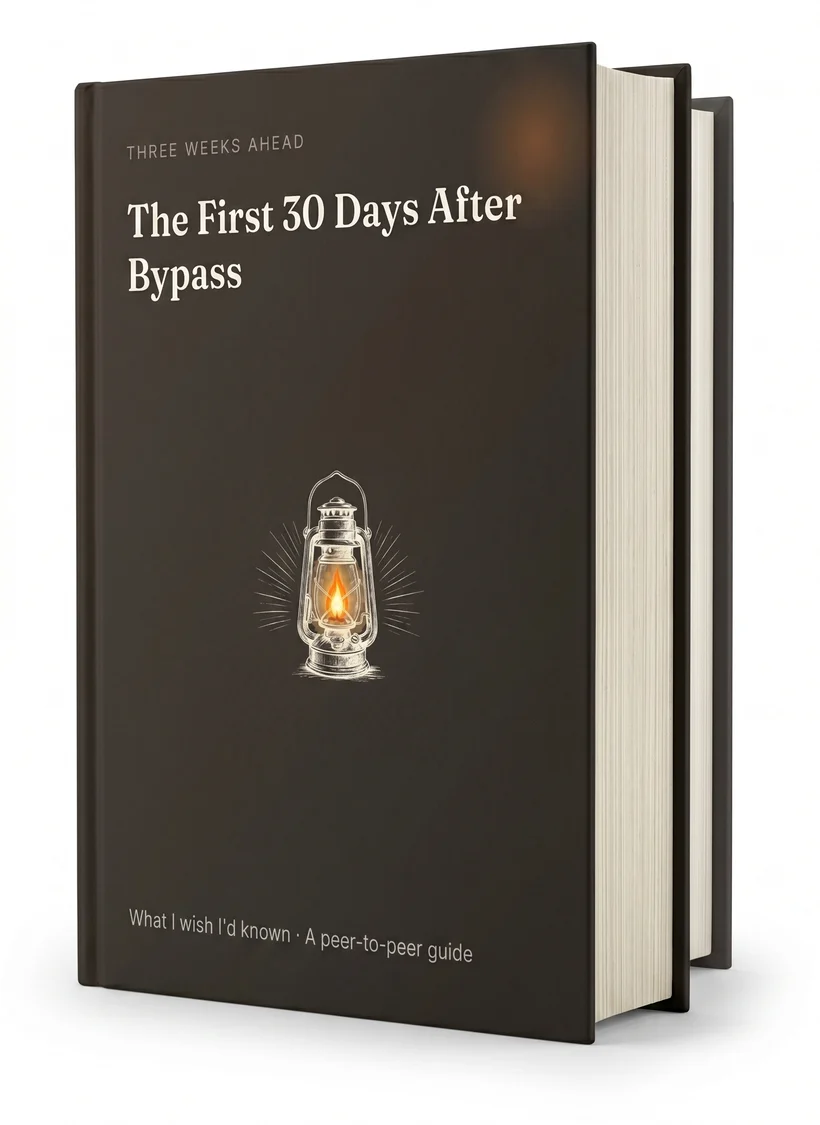
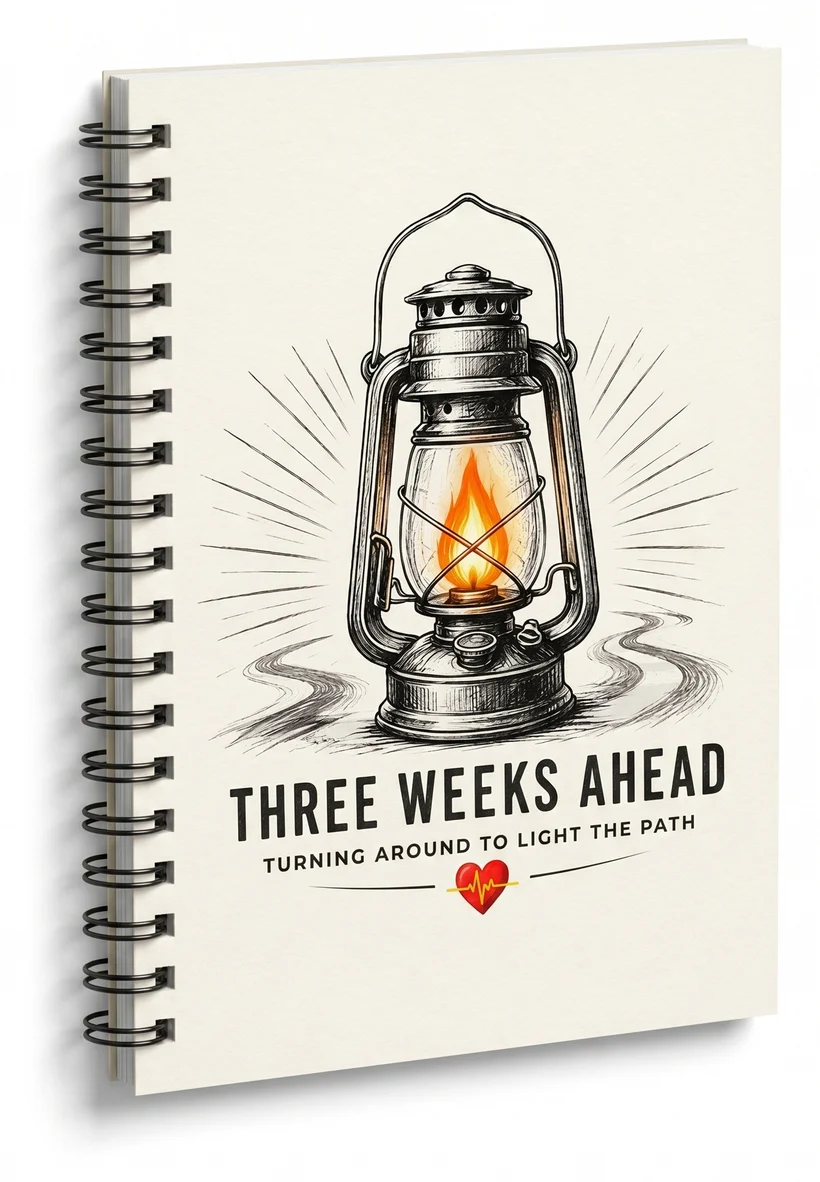
feat: swap guide cover to thin ring-bound booklet
Replace the thick hardcover with a single spiral/wire-O ring-bound
booklet (quick-read look) whose cover is the full lightthepath lantern
artwork — generated via nano from lightthepath.png. Update height attr
for the new aspect ratio.

diff --git a/index.html b/index.html
@@ -557,7 +557,7 @@
   <div class="container-wide">
     <div class="lead-magnet">
       <div class="lead-magnet-grid">
-        <img src="/guide-book.webp" alt="The First 30 Days After Bypass — a free peer-to-peer guide from Three Weeks Ahead" class="guide-book" width="820" height="1125" loading="lazy" decoding="async">
+        <img src="/guide-book.webp" alt="The First 30 Days After Bypass — a free peer-to-peer guide from Three Weeks Ahead" class="guide-book" width="820" height="1182" loading="lazy" decoding="async">
         <div>
           <div class="eyebrow">Free Guide</div>
           <h2 style="font-size: 28px;">What nobody tells you about the first month home.</h2>
